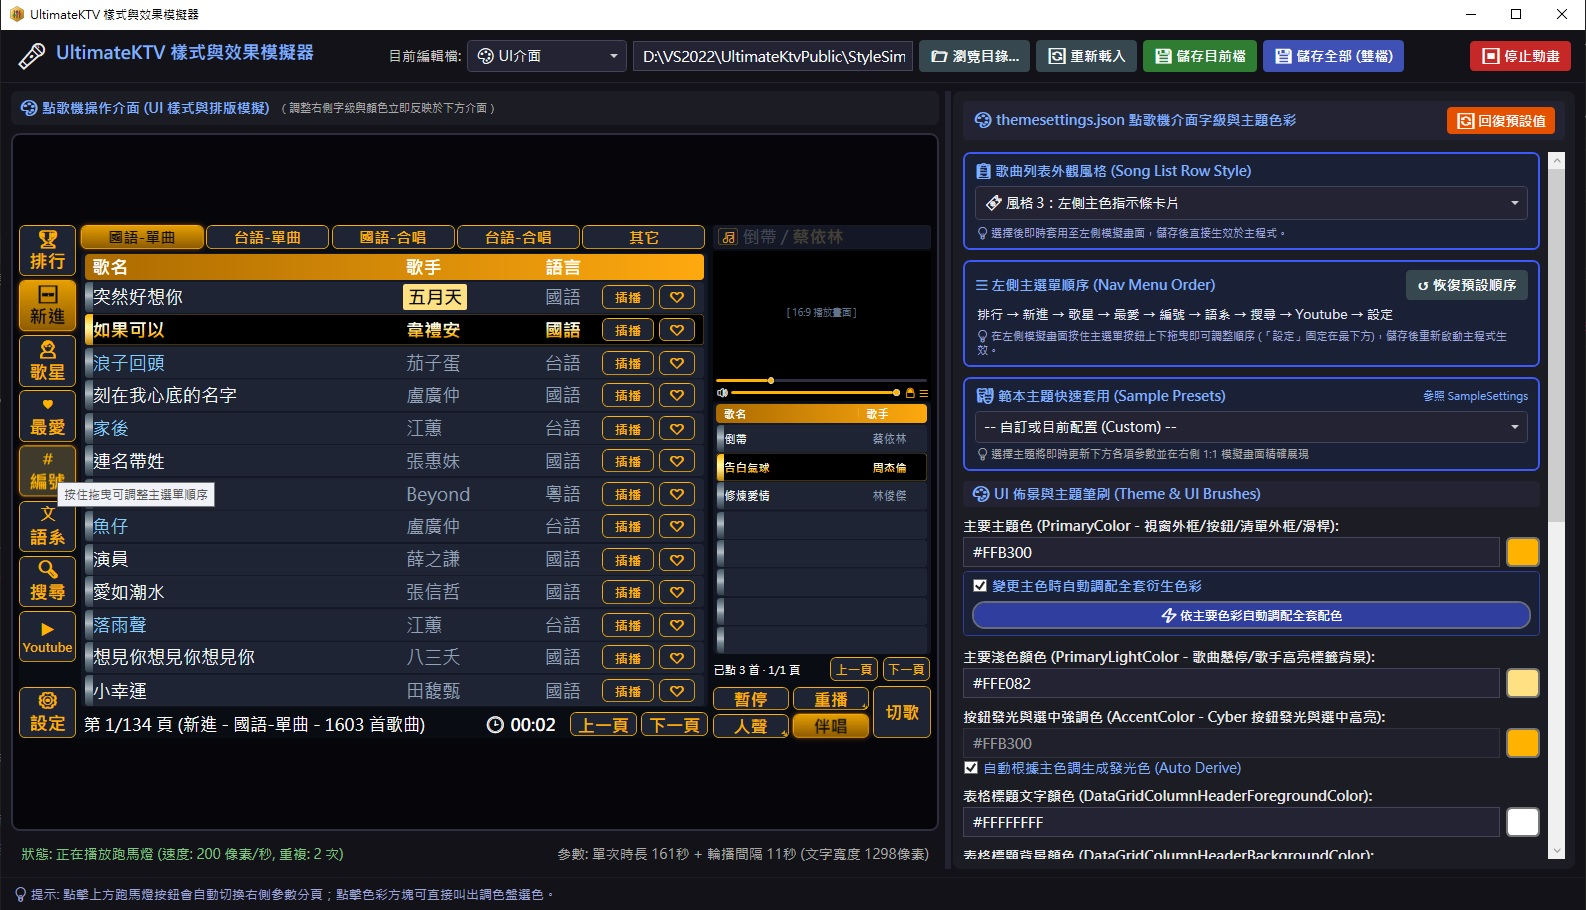
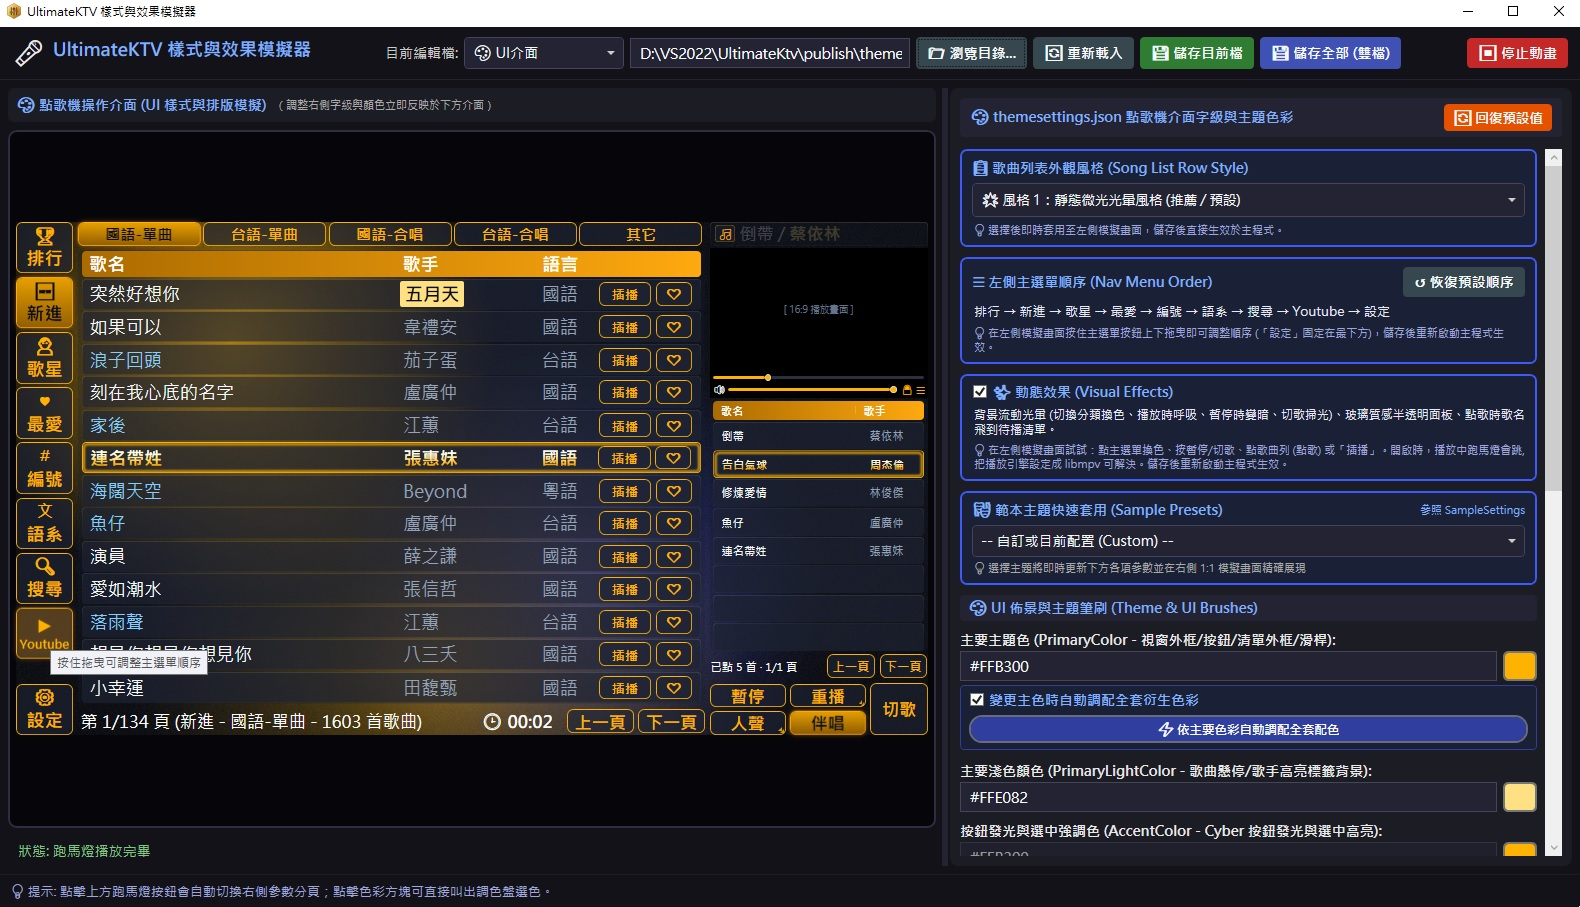
README 更新與 StyleSimulator 圖片更新
- 歌庫改寫為 Access 或 SQLite (有 CrazySong.db 時優先，由 SongMgr 匯出)；NuGet 列出 SQLitePCLRaw.lib.e_sqlite3
- 執行需求補上 .NET 8 Desktop Runtime (依架構)，使用 SQLite 歌庫時不需要 ACE / Jet
- 外部工具補上 yt-dlp_x86.exe；新增「發佈」段落：單一檔案、兩個架構可發佈到同一個資料夾、
  Images 與 Updater 等需另外打包、舊版殘留檔不會被讀取
- 自動更新補上直接執行 Updater 時依作業系統位元選主程式；StyleSimulator 讀寫自己資料夾的設定檔
- 功能簡介新增「動態效果」(背景光暈、玻璃面板、點歌飛入，themesettings.json 的 VisualEffects 可關閉)
- 播放引擎註明 DirectShow 在開啟動態效果時電視跑馬燈會跳動，改用 libmpv (或關閉動態效果) 可改善
- 錄音改為實際行為：麥克風與播放聲音混成 320kbps MP3，隨機播放不錄，剩餘空間不到 1 GB 不錄
- 更新 StyleSimulator 截圖 (Docs/StyleSimulator1.jpg)

Changed region(s): [[0.0, 0.0, 1.0, 0.957], [0.0, 0.9261, 0.3411, 0.9879], [0.4962, 0.3396, 0.5272, 0.3705]]

diff --git a/README.md b/README.md
@@ -13,11 +13,12 @@ UltimateKtv 是一套針對 Windows 平台開發的專業 KTV 點歌與播放系
 - **YouTube 即時消除人聲**：任何 YouTube 原唱 MV 都能當伴唱帶唱，播放時即時消去人聲，不需另找 KTV 版；線上搜尋、下載至歌庫 (預設高畫質優先)，下載完自動點歌。
 - **隨機播放**：待播清單沒歌時，自動從排行、新進或我的最愛挑歌。
 - **跑馬燈與歌詞**：電視畫面顯示播放資訊與點歌提示；歌曲旁有同名 `.lrc` 檔時顯示歌詞。
-- **錄音**：播放時同步錄下歌聲。
-- **兩種播放引擎**：libmpv (預設) 或 DirectShow，皆支援硬體解碼。
-- **歌庫**：Access (`CrazySong.mdb`)，之後會支援 SQLite。
-- **配色與多國語言**：可自訂配色 (`SampleSettings/` 有範本)；介面語言檔放在 `Languages/`，可自行新增。
-- **自動更新**：從 GitHub Release 檢查並套用新版本。
+- **錄音**：播放時把麥克風與播放的聲音混成 MP3 (320kbps)；隨機播放的歌不錄，開始錄音時剩餘空間不到 1 GB 則該首不錄。
+- **兩種播放引擎**：libmpv (預設) 或 DirectShow，皆支援硬體解碼。使用 DirectShow 且開啟動態效果時，電視畫面的跑馬燈會有跳動，改用 libmpv (或關閉動態效果) 可改善。
+- **動態效果**：背景流動光暈 (切換分類換色、播放時呼吸、暫停時變暗、切歌時掃光)、玻璃質感半透明面板、點歌時歌名飛入待播清單；可用 `themesettings.json` 的 `VisualEffects` 一次關閉 (改了要重新啟動)。
+- **歌庫**：Access (`CrazySong.mdb`) 或 SQLite (`CrazySong.db`)。執行目錄有 `CrazySong.db` 時優先使用 SQLite；`CrazySong.db` 由 CrazyKTV 加歌程式 (SongMgr) 的「匯出 SQLite 資料庫」產生。
+- **配色與多國語言**：可自訂配色 (`SampleSettings/` 有範本，`StyleSimulator.exe` 可即時預覽)；介面語言檔放在 `Languages/`，可自行新增。
+- **自動更新**：從 GitHub Release 檢查並套用新版本；也可直接執行 `UltimateKtv.Updater.exe` 手動檢查 (x64 / x86 放在同一個資料夾時，依作業系統位元選擇要更新與啟動的主程式)。
 
 ---
 
@@ -64,7 +65,7 @@ UltimateKtv 是一套針對 Windows 平台開發的專業 KTV 點歌與播放系
 
 **影音硬體**
 - **音響增益值**：全域音量增益 (100 - 500)，整體音量偏小時可調高。
-- **播放引擎**：libmpv (預設) 或 DirectShow。找不到 `libmpv-2.dll` 時自動改用 DirectShow；變更後需重新啟動。
+- **播放引擎**：libmpv (預設) 或 DirectShow。找不到 `libmpv-2.dll` 時自動改用 DirectShow；變更後需重新啟動。DirectShow 在開啟動態效果時，電視畫面的跑馬燈會有跳動，建議使用 libmpv。
 - **視訊渲染器** (DirectShow)：VMR9 相容性較佳；EVR 效能與畫質較佳，Windows 10/11 建議使用。
 - **音訊輸出裝置**：有多個音效輸出時，選擇接擴大機或喇叭的裝置。
 - **啟用硬體解碼**：用顯示卡協助解碼，大幅降低 CPU 使用率。
@@ -156,11 +157,11 @@ C. 系統廣播 (音量 / 音調 / 聲道 / 狀態) 提示
 | **使用者介面 (UI)** | WPF (Windows Presentation Foundation) |
 | **目標平台 (Platform)** | x86 / x64 |
 | **開發工具 (IDE)** | Visual Studio 2022 |
-| **核心套件 (NuGet)** | <ul><li>`MaterialDesignThemes` / `MaterialDesignColors` (UI 視覺框架)</li><li>`Microsoft.AspNetCore.Server.Kestrel` (內建網頁伺服器)</li><li>`System.Data.OleDb` (Access 歌庫存取)；`System.Data.SQLite` (SQLite 歌庫，之後支援)</li><li>`YoutubeExplode` (YouTube 解析，yt-dlp 失敗時的退路)</li><li>`NAudio` (錄音)</li><li>`Newtonsoft.Json` (網頁點歌 API、更新檢查)</li><li>`QRCoder` (網頁點歌 QR Code 產生)</li></ul> |
+| **核心套件 (NuGet)** | <ul><li>`MaterialDesignThemes` / `MaterialDesignColors` (UI 視覺框架)</li><li>`Microsoft.AspNetCore.Server.Kestrel` (內建網頁伺服器)</li><li>`System.Data.OleDb` (Access 歌庫存取)；`System.Data.SQLite` + `SQLitePCLRaw.lib.e_sqlite3` (SQLite 歌庫)</li><li>`YoutubeExplode` (YouTube 解析，yt-dlp 失敗時的退路)</li><li>`NAudio` (錄音)</li><li>`Newtonsoft.Json` (網頁點歌 API、更新檢查)</li><li>`QRCoder` (網頁點歌 QR Code 產生)</li></ul> |
 | **播放引擎 (DirectShow)** | `CrazyKTV_MediaKit`、`DirectShowLib-2005`、LAV Filters (分離/影像/音訊解碼)、`SoundTouchDS` (升降調)、`AudioMixerDS` (消人聲、增益、限制器)，放在 `Codec/` (x64) 與 `Codec_x86/` (x86) |
 | **播放引擎 (libmpv，預設)** | `libmpv-2.dll` 超過 GitHub 檔案上限不在 repo 中，建置時由 `Tools/Get-Libmpv.ps1` 自動下載 (x86 固定 20260412 版) |
-| **外部工具** | `Tools/yt-dlp.exe` (YouTube 下載)、`Tools/ffmpeg.exe` (影像與音訊合併) |
-| **執行需求** | x64 版讀取 Access 歌庫需安裝 Microsoft Access Database Engine (ACE.OLEDB.12.0)；x86 版使用 Windows 內建的 Jet 4.0 |
+| **外部工具** | `Tools/yt-dlp.exe` (x64 版用) 與 `Tools/yt-dlp_x86.exe` (x86 版用，32 位元 Windows 也能執行) 下載 YouTube、`Tools/ffmpeg.exe` (影像與音訊合併) |
+| **執行需求** | 需安裝 .NET 8 Desktop Runtime (x64 版用 x64、x86 版用 x86 的 Runtime)；x64 版讀取 Access 歌庫需安裝 Microsoft Access Database Engine (ACE.OLEDB.12.0)，x86 版使用 Windows 內建的 Jet 4.0；使用 SQLite 歌庫時兩者都不需要 |
 | **測試** | xUnit (`Tests/UltimateKtv.Tests`) |
 
 **建置與測試**
@@ -172,6 +173,19 @@ dotnet build UltimateKtv.sln -p:Platform=x64
 dotnet test Tests/UltimateKtv.Tests/UltimateKtv.Tests.csproj -p:Platform=x64 --filter "Category!=Network"
 ```
 x64 輸出 `UltimateKtv.exe`，x86 輸出 `UltimateKtv_x86.exe`；相依 DLL 會在建置後搬到輸出目錄的 `libs\`。
+
+**發佈 (Publish)**
+
+發佈設定 (`Properties/PublishProfiles/FolderProfile.pubxml`) 為單一檔案 (`PublishSingleFile`)、framework-dependent、ReadyToRun。x64 與 x86 各發佈一次，可以發佈到同一個資料夾，兩者互不覆蓋：
+
+```
+UltimateKtv.exe / UltimateKtv_x86.exe       主程式 (受控 DLL 已包進 exe)
+Codec\ / Codec_x86\                         各自的播放引擎 (不包進 exe，MediaKit 需以實體檔存在)
+runtimes\win-x64\ / win-x86\                各自的 SQLite 原生檔 (e_sqlite3.dll)
+Tools\  Languages\  wwwroot\                兩者共用
+```
+
+`Images\`、`UltimateKtv.Updater.exe` (`Updater/` 另外發佈)、`StyleSimulator.exe` 等不在主程式的發佈輸出中，打包時需另外放入。舊版安裝資料夾留下的 `UltimateKtv.dll`、`*.deps.json`、`*.runtimeconfig.json`、`*.dll.config`、`libs\` 不會被新版讀取，可保留或刪除。
 
 ---
 
@@ -195,9 +209,9 @@ x64 輸出 `UltimateKtv.exe`，x86 輸出 `UltimateKtv_x86.exe`；相依 DLL 會
 | `Update/` | 檢查與下載更新 (套用更新的 `Updater/` 是獨立程式) |
 | `Infrastructure/` | 記錄檔、資源監控、電源管理等共用元件 |
 | `Tests/` | 單元測試 (xUnit) |
-| `StyleSimulator/` | 獨立的配色預覽工具 |
+| `StyleSimulator/` | 獨立的配色預覽工具 (讀寫自己所在資料夾的 `settings.json` / `themesettings.json`，與主程式放在同一個資料夾使用，或用「選擇 UltimateKtv 程式目錄」指定) |
 
-`Codec*`、`Images`、`Languages`、`Tools`、`wwwroot`、`SampleSettings` 與歌庫 `CrazySong.mdb` 是執行時使用的資料與範本，保留在根目錄。
+`Codec*`、`Images`、`Languages`、`Tools`、`wwwroot`、`SampleSettings` 與歌庫 `CrazySong.mdb` / `CrazySong.db` 是執行時使用的資料與範本，保留在根目錄。
 
 ---
 
